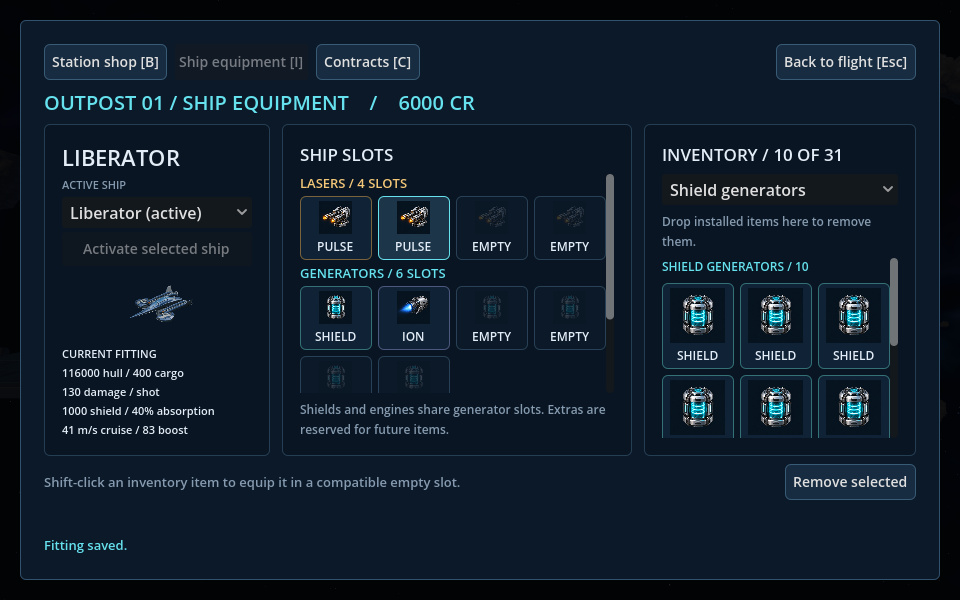
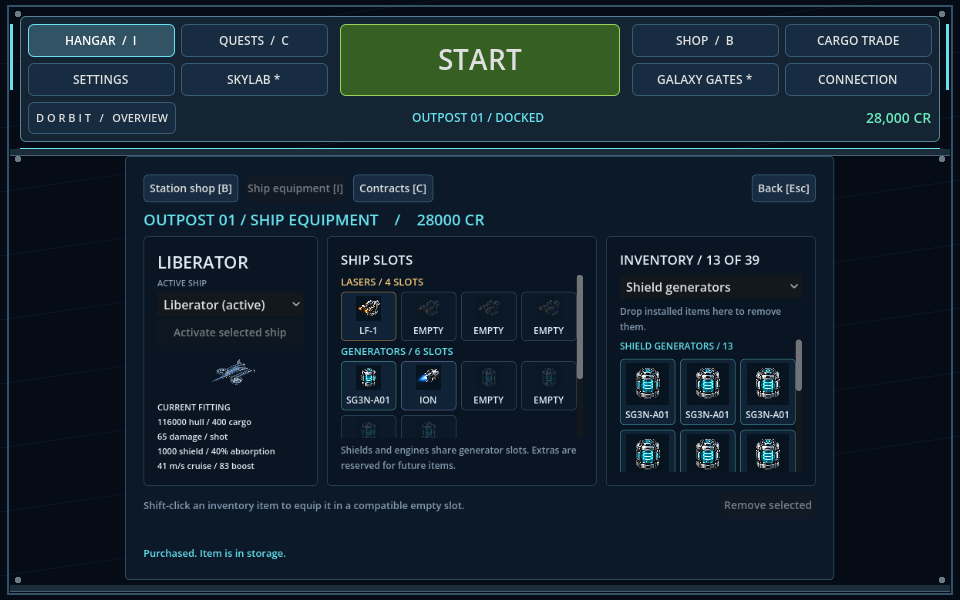
test: validate docked inventory and expanded catalog

diff --git a/README.md b/README.md
@@ -254,9 +254,9 @@ The shop has a category sidebar, a scrollable item grid, a large item preview an
 
 Review the new [lasers](docs/feedback/darkorbit-lasers.png), [shields](docs/feedback/darkorbit-shields.png), [engines](docs/feedback/darkorbit-engines.png), [unavailable LF-4](docs/feedback/darkorbit-unavailable.png) and [mixed fitting](docs/feedback/darkorbit-fitting.png) at 960 x 600. The shop test covers category filters, catalog scrolling, real mouse card selection, B/I/C navigation, authenticated purchases, double-click blocking, ownership updates, insufficient funds, station restrictions and layout with preview tools at 960 x 600 and 1440 x 900. It runs in both standard check commands. To capture fresh shop screenshots, run Godot with `--path . --script res://tests/shop_test.gd` in a rendered window.
 
-[Review the equipment screen at 960 x 600](docs/feedback/rebalance-equipment.png) and [the lower generator and extra slots](docs/feedback/rebalance-extra-slots.png). Inventory groups weapons, shield generators, speed generators and extras in that order. Choose All equipment or a category in the inventory filter. Shift + left click equips a stored item into the first compatible empty slot on the active ship; full slots leave the item in inventory with an explanation. Shields and speed generators share the generator slots; extras remain reserved.
+[Review the equipment screen at 960 x 600](docs/feedback/rebalance-equipment.png) and [the lower generator and extra slots](docs/feedback/rebalance-extra-slots.png). Open Hangar in the docked main menu to prepare equipment before Start, or press I near the station during flight. Inventory groups weapons, shield generators, speed generators and extras in that order. Choose All equipment or a category in the inventory filter. Shift + left click equips a stored item into the first compatible empty slot on the active ship; full slots leave the item in inventory with an explanation. Shields and speed generators share the generator slots; extras remain reserved. Back and Esc return to the docked overview without launching; Start keeps the prepared fitting.
 
-The equipment test drives Godot's mouse drag routing through authenticated RPCs for install and removal, rejects incompatible and occupied slots, and checks ordinary clicks, Shift-click fitting, rapid-click and pending-request blocking, station restrictions and persistence. A separate presentation fixture checks grouping, every category filter, selection clearing, scrolling with 31 stored items and layouts at 960 x 600 and 1440 x 900. Review the [grouped inventory](docs/feedback/inventory-category-groups.png) and [shield filter](docs/feedback/inventory-category-filter.png). Run `res://tests/equipment_test.gd` with a renderer to capture fresh views under `build/validation`.
+The equipment test drives Godot's mouse drag routing through authenticated RPCs for install and removal, rejects incompatible and occupied slots, and checks ordinary clicks, docked Shift-click fitting, rapid-click and pending-request blocking, station restrictions and persistence. It also checks Hangar navigation, Back/Esc, filter retention and launch with the prepared fitting. Presentation fixtures check grouping across the expanded equipment catalog, every category filter, selection clearing, scrolling with 31 and 39 stored items, and flight/docked layouts at 960 x 600 and 1440 x 900 with Start accessible. Review the [docked grouped inventory](docs/feedback/inventory-category-groups.png) and [shield filter](docs/feedback/inventory-category-filter.png). Run `res://tests/equipment_test.gd` with a renderer to capture fresh views under `build/validation`.
 
 The regular Liberator has 116,000 hull. New pilots start with LF-1, SG3N-A01 and the original Ion engine installed: 65 laser damage, 1,000 shield capacity at 40% absorption, and +8 m/s cruise and boost speed. The Liberator has 33 m/s base cruise, 75 m/s base boost and 400 cargo units, giving 41/83 m/s with its starter engine. Existing starter items and purchased Ion engines retain their fitting and bonuses; Ion engines are no longer sold. LF-1 costs 10,000 CR and SG3N-A01 costs 8,000 CR. New G3N engines add +2/+3/+4/+5/+7/+10 m/s. Uridium-priced items cost their reference price times **100 credits**: LF-2 is 500,000 CR, LF-3 and SG3N-B02 are 1,000,000 CR each, SG3N-B01 is 250,000 CR, and G3N-6900/G3N-7900 are 100,000/200,000 CR. See the complete [item table and sources](GAME_PLAN.md#darkorbit-reference-equipment-catalog).
 

diff --git a/GAME_PLAN.md b/GAME_PLAN.md
@@ -236,7 +236,7 @@ The first Milestone 3 equipment slice added fittings for the Liberator starter. 
 - Press B near the station for the shop and I for a separate ship equipment screen. Both use the repair checks: alive, within 60 m, speed at most 8 m/s, and at least five seconds since damage. The server checks every action again.
 - The shop has category navigation, a scrollable two-column item catalog, a selected-item preview and a purchase summary. Weapons contain lasers; generators have shield and engine submenus. All equipment shows 18 reference models: five lasers, seven shields and six engines, including unavailable LF-4 and SG3N-B00 previews. Ships lists all twelve modeled base hulls with stats, credits and ownership. Selecting categories or items never purchases anything. Equipment uses the same artwork as inventory; ships use their saved model renders.
 - The shop shows visual item cards, prices and credits, and delivers equipment to inventory and empty hulls to the hangar. The equipment screen shows the active ship's model preview and an owned-ship selector on the left, its actual laser and shared generator slots in the middle, and scrollable storage inventory on the right. Activate an owned hull for free at the station; switching preserves absolute hull, shield charge, boost energy and cooldowns, clamped to the new fitting. Drag items to compatible empty slots to install them, or back to inventory to remove them. Selecting an item and clicking an empty slot, plus a removal button, also supports keyboard use. Occupied slots require removal first.
-- Storage groups items in order: weapons, shield generators, speed generators, then extras. A category filter or All equipment view reduces crowding without changing ownership. Shift + left click on a stored item installs it in the first compatible empty slot on the active ship; shields and speed generators use the same shared generator pool. Full slots leave the item in storage with an explanation. Extras remain reserved until extra equipment is added.
+- Storage groups items in order: weapons, shield generators, speed generators, then extras. A category filter or All equipment view reduces crowding without changing ownership. Shift + left click on a stored item installs it in the first compatible empty slot on the active ship; shields and speed generators use the same shared generator pool. This works in the docked main menu's Hangar before Start and in the station equipment screen during flight. Back and Esc return docked pilots to the overview without launching; Start preserves the prepared fitting. Full slots leave the item in storage with an explanation. Extras remain reserved until extra equipment is added.
 - Current and proposed damage, shield capacity, absorption, cruise and boost speeds remain visible. Unavailable purchases and fitting actions explain why. B, I and C switch station screens; Esc returns to flight. Generated item art and a temporary ship preview do not depend on the final ship models.
 - Fitting changes never repair hull, refill shields or boost energy, or reset weapon cooldowns. Added shield capacity starts empty and recovers through the normal shield regeneration rules. Removing capacity discards excess charge.
 - The server commits a purchase's credit deduction, new item and request sequence together. Successful requests cannot run again, even after restart. A new intentional purchase uses the next sequence. Inventory and fittings survive death, reconnects and server restarts.
